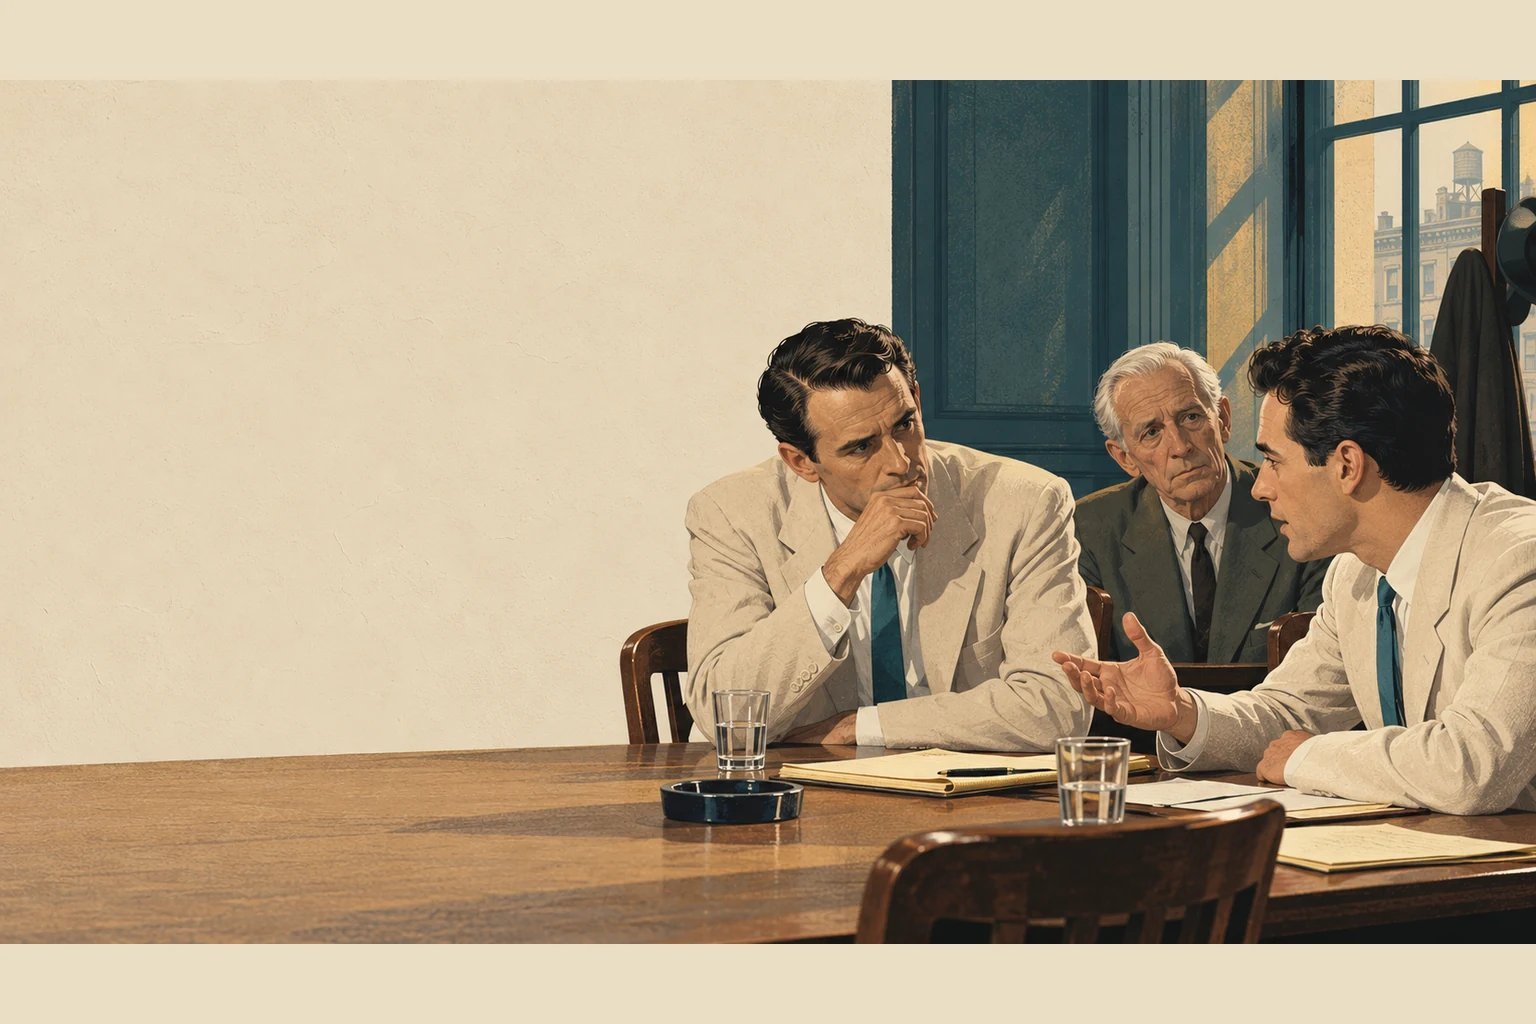
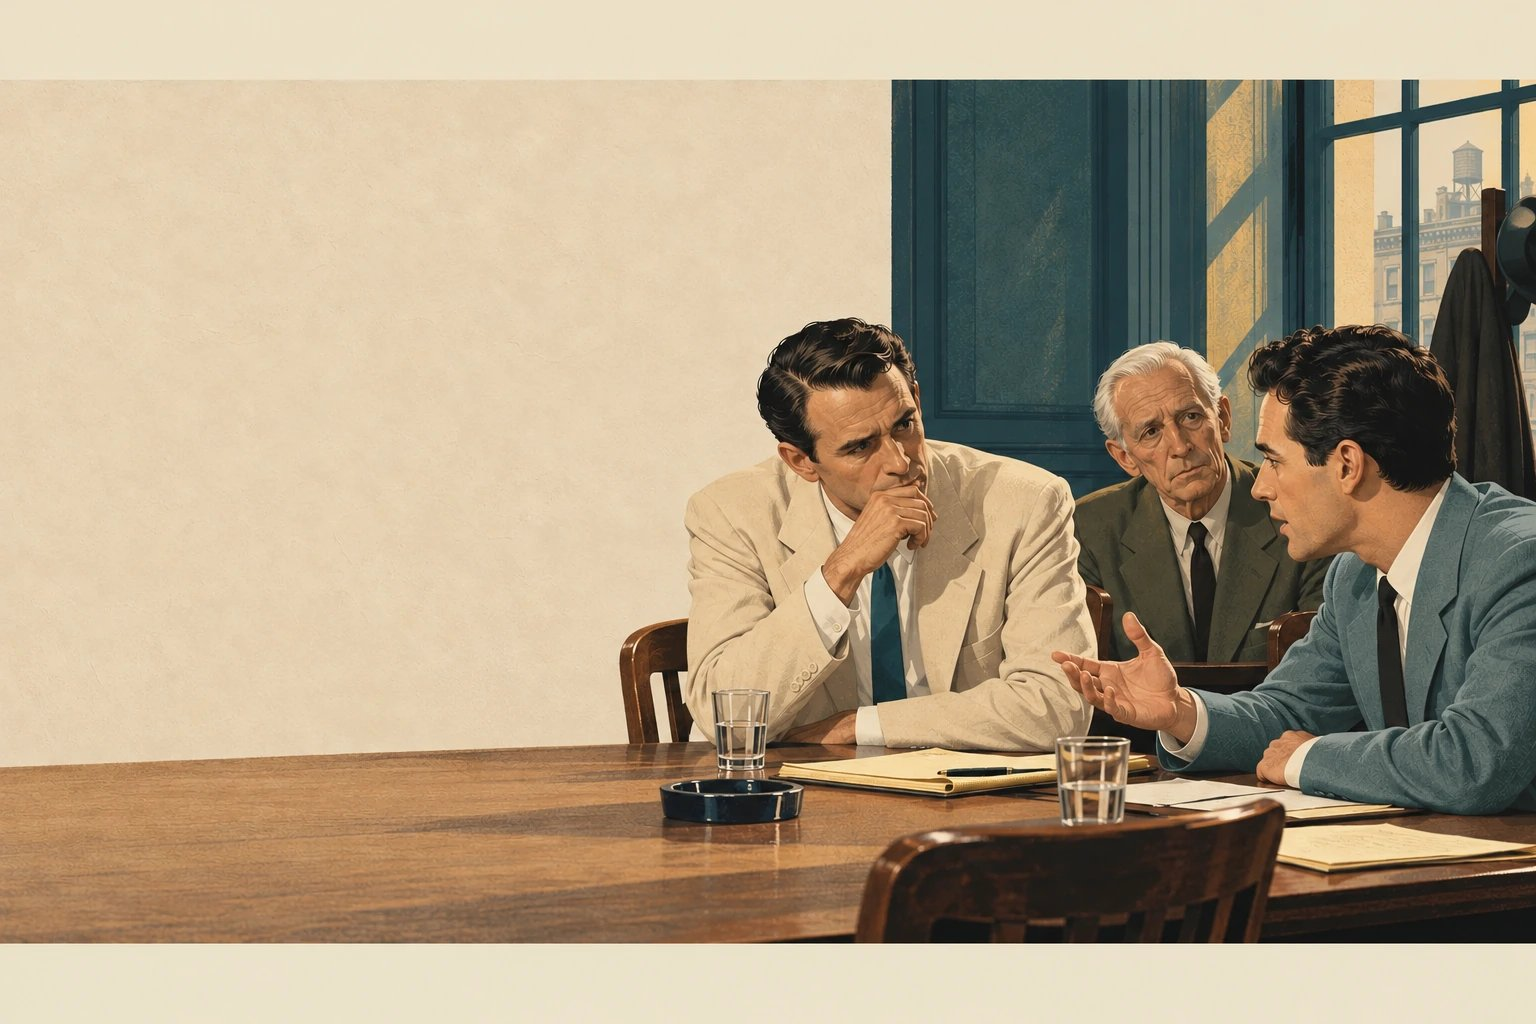
Reasonable Doubt: the listening-route plate no longer shows two Juror 8s
The quieter juror wore Juror 8's ivory suit and teal tie. Replaced with the
reviewed render (blue suit), same composition, so the text column is unchanged.

diff --git a/reasonable-doubt-rpg.html b/reasonable-doubt-rpg.html
@@ -335,7 +335,10 @@ html[data-theme="light"] .stage.on-cover .bg-layer::after {
 .fe-logo-mark { color: var(--logo-mark, var(--accent)); }
 .fe-logo-word { fill: var(--logo-word, var(--text)); opacity: 0; transition: opacity .25s ease; }
 .fonts-ready .fe-logo-word { opacity: 1; }   /* never flash a fallback face */
-.slide[data-type="cover"] .fe-logo { width: 232px; }
+/* flex-shrink 0: in the cover's flex column an over-full cover squashed the
+   logo (to 15px tall on The Comeback Ride, 2026-11-08) and so hid its own
+   overflow from check-lesson's LAYOUT gate. Now the overflow shows. */
+.slide[data-type="cover"] .fe-logo { width: 232px; flex-shrink: 0; }
 
 /* ── COVER ── */
 .cover-inner {
@@ -1353,6 +1356,15 @@ html.is-flow .panel-body { padding: var(--pad); justify-content: flex-start; }
 /* editorial's art is placed against the 16:9 canvas by hand, slide by slide;
    there is no upright position for it, so upright it is not drawn */
 html.is-flow[data-style="editorial"] .editorial-art { display: none; }
+/* ...and so the column the body gave up for it comes back. The 58% / 65%
+   max-width and the 42% left margin (picture on the left) are keyed to the
+   picture, and upright they kept the text in half a phone, two words a line,
+   pushed right on every left-picture slide (measured on The Comeback Ride,
+   2026-11-08; true of every editorial deck). !important because the rules it
+   undoes are (0,8,1) and later in the file. */
+html.is-flow[data-style="editorial"] .stage .slide.is-active .slide-body {
+  max-width: none !important; margin-left: 0 !important;
+}
 
 /* ── two columns is one column ──
    !important, which nothing else here needs: a builder that wants three
@@ -1410,6 +1422,14 @@ html.is-flow .cover-title { font-size: clamp(30px, 8.6vw, 40px); margin-top: 14p
 html.is-flow .cover-sub { font-size: 16px; }
 html.is-flow .slide-title { font-size: clamp(23px, 6.6vw, 30px); }
 html.is-flow[data-style="editorial"] .slide-title { font-size: clamp(26px, 7.4vw, 34px); }
+/* The editorial cover's 88px / 24px are (0,2,1) and later in the file, so
+   they beat the two flow rules above: on a 390px phone "comeback" ran 60px
+   off the screen (The Comeback Ride, 2026-11-08). */
+html.is-flow[data-style="editorial"] .cover-title { font-size: clamp(34px, 10.5vw, 46px); }
+html.is-flow[data-style="editorial"] .cover-sub { font-size: 17px; }
+/* ...and its 58% cap, which is the scrim's width on a 16:9 canvas, left the
+   cover type in 226px of a 390px phone. */
+html.is-flow[data-style="editorial"] .cover-inner { max-width: none; }
 html.is-flow .divider-cap h2 { font-size: clamp(24px, 6.8vw, 32px); }
 html.is-flow .fe-logo { width: 116px; }
 html.is-flow .slide[data-type="cover"] .fe-logo { width: 150px; }
@@ -1802,7 +1822,9 @@ html[data-style="editorial"] .editorial-art {
   display: block;
   position: absolute; z-index: 0; pointer-events: none;
   right: 58px; top: 172px; width: 37%; height: 57%;
-  background: var(--hero) center / cover no-repeat;
+  /* --art-pos is the slide's data-art-pos (show() copies it): the crop that
+     keeps a plate's subject inside the frame. Unset, it is centre. */
+  background: var(--hero) var(--art-pos, center) / cover no-repeat;
   border-radius: 22px;                     /* the source deck's default */
   box-shadow: 0 10px 40px rgba(18, 58, 62, 0.14);
 }
@@ -1958,9 +1980,12 @@ html[data-style="editorial"] .card {
              font-size:26px;font-weight:500;gap:22px}
      .letter{font-size:24px;padding:10px 15px;border-radius:9px;
              background:cream;font-weight:800}  */
-html[data-style="editorial"] .opts { justify-items: stretch; gap: 12px; }
+/* Sized to the answer, not the column (2026-11-08): the source's bars ran
+   full width, and a four-word option in a 668px bar failed check-lesson's
+   OPTS gate and the house rule that answer boxes fit their answers. */
+html[data-style="editorial"] .opts { justify-items: start; gap: 12px; }
 html[data-style="editorial"] .opt {
-  width: 100%; text-align: left; gap: 18px;
+  width: fit-content; max-width: 100%; text-align: left; gap: 18px;
   background: var(--surface); border: 2px solid #bed0cb;
   border-radius: 11px; padding: 16px 19px;
   font-size: 21px; font-weight: 500; line-height: 1.3;
@@ -3234,7 +3259,7 @@ html[data-theme="light"] .stage.on-cover .bg-layer::after {
       </div>
     </section>
 
-    <section class="slide" data-type="teach" data-node="q28" data-act="Act IV" data-bg="ReasonableDoubt/listen.jpg" data-side="left" style="--col-w:549px;--wall:linear-gradient(180deg,#e6d7bb 10%,#e3d3b6 30%,#e3d3b6 50%,#e2d0b3 70%,#ddc9ac 90%);--band:56px">
+    <section class="slide" data-type="teach" data-node="q28" data-act="Act IV" data-bg="ReasonableDoubt/listen.jpg" data-side="left" style="--col-w:549px;--wall:linear-gradient(180deg,#e8d7ba 10%,#e5d1b2 30%,#e5d0b2 50%,#e3cfb1 70%,#ddc9aa 90%);--band:55px">
       <div class="slide-head"><div>
         <div class="eyebrow" data-i18n="qeq28">Act IV · the listening route</div>
         <h2 class="slide-title" data-i18n="qtq28">Make room for a voice.</h2>
@@ -3247,7 +3272,7 @@ html[data-theme="light"] .stage.on-cover .bg-layer::after {
       </div>
     </section>
 
-    <section class="slide" data-type="mc" data-node="q28q" data-act="Act IV" data-bg="ReasonableDoubt/listen.jpg" data-side="left" style="--col-w:549px;--wall:linear-gradient(180deg,#e6d7bb 10%,#e3d3b6 30%,#e3d3b6 50%,#e2d0b3 70%,#ddc9ac 90%);--band:56px">
+    <section class="slide" data-type="mc" data-node="q28q" data-act="Act IV" data-bg="ReasonableDoubt/listen.jpg" data-side="left" style="--col-w:549px;--wall:linear-gradient(180deg,#e8d7ba 10%,#e5d1b2 30%,#e5d0b2 50%,#e3cfb1 70%,#ddc9aa 90%);--band:55px">
       <div class="slide-head"><div>
         <div class="eyebrow" data-i18n="qeq28">Act IV · the listening route</div>
         <h2 class="slide-title" data-i18n="qtq28">Make room for a voice.</h2>

diff --git a/docs/HANDOFF.md b/docs/HANDOFF.md
@@ -684,6 +684,7 @@ in `ReasonableDoubt/` (the export's own, 3:2, via prep-artwork; light palette).
   resolves them), the deck bar's act label too. Gap sentences, options and
   toolkit examples stay English (§8). Keys must be identifiers: render() writes
   them unquoted, so a hyphenated key killed the whole script.
+- **Continuity fix (2026-11-08).** The listen plate (export scene 28) had the quieter juror in Juror 8's ivory suit and teal tie. ChatGPT re-rendered it in a blue suit (`~/Downloads` export, only that image changed); `ReasonableDoubt/listen.jpg` replaced via prep-artwork, same composition, so `SUBJECT` is unchanged.
 - **Catalogue row inserted** (Innes asked; B2-C1, pro, deck), hubs and SEO
   rebuilt the same day: library, RPG hub, Modal Verbs and Conditionals carry it.
 
